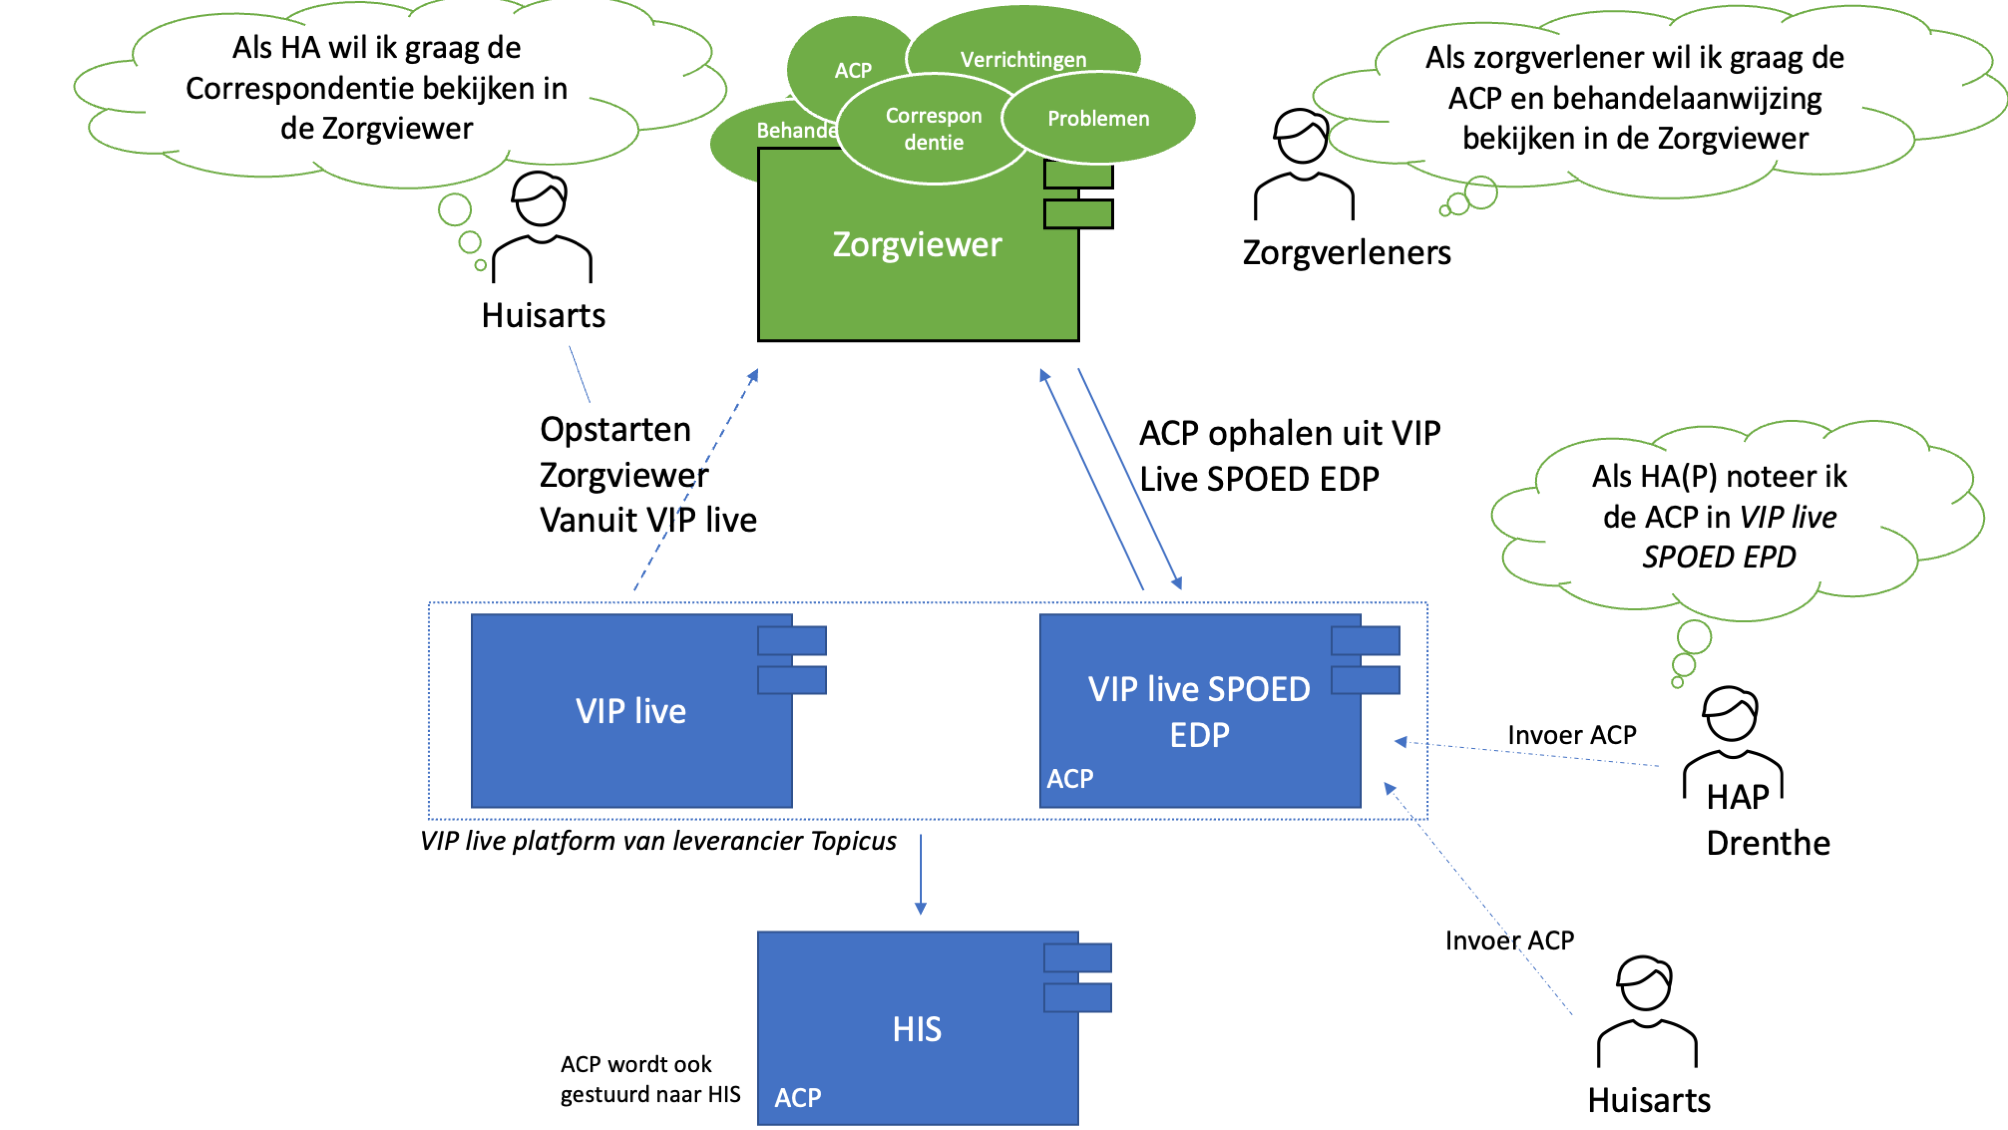
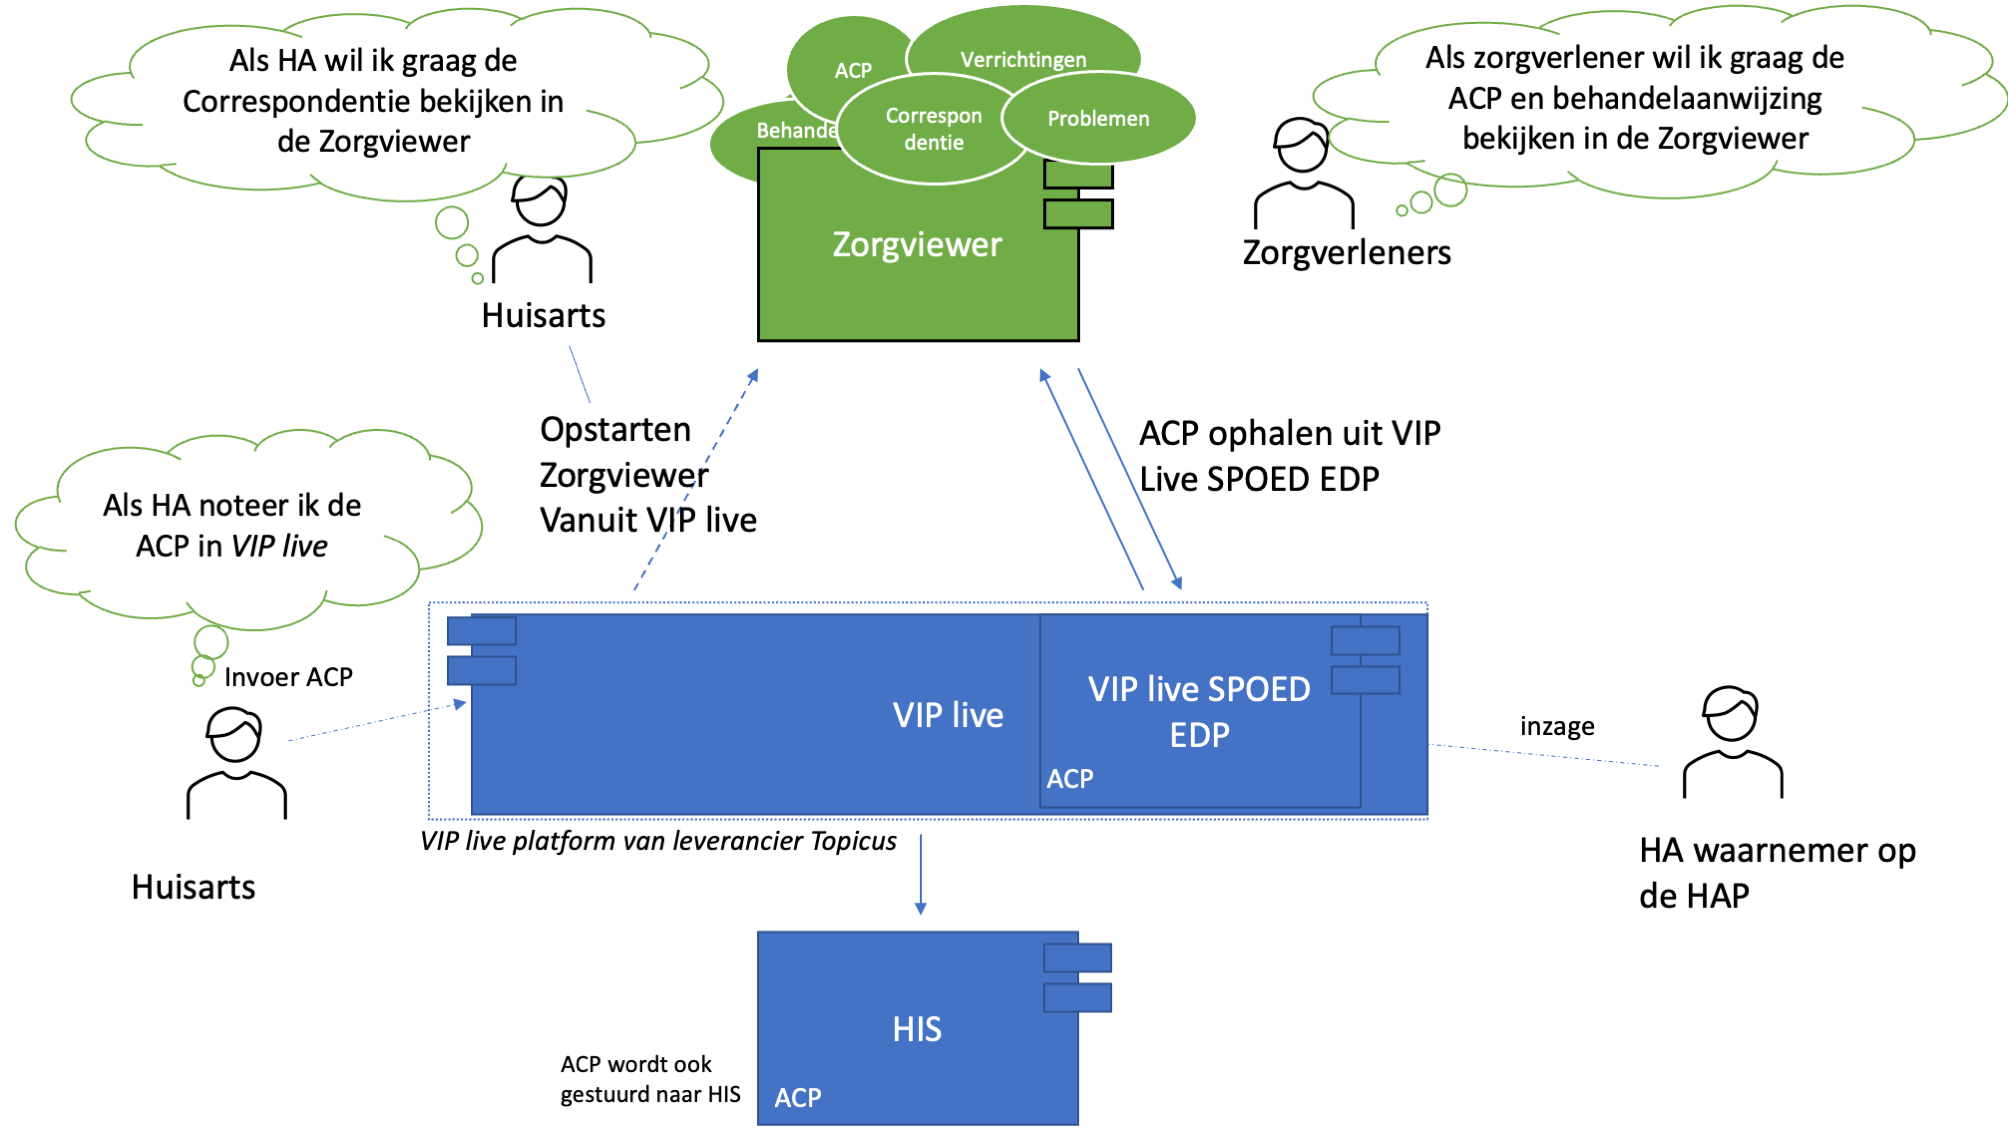
aanpassingen nav overleg met Topicus en dokter drenthe

diff --git a/input/pagecontent/design-background.md b/input/pagecontent/design-background.md
@@ -28,17 +28,16 @@ In onderstaade plaat is globaal weergegeven hoe de systemen van de huisarts inte
 
 #### Definities
 * Topicus = Leverancier van VIPLive
-* VIPLive = producten suite / platform, VIPLive is geen HIS
+* VIPLive = producten suite / platform, VIPLive is geen HIS, in VIPLive wordt de ACP ingevoerd door de huisarts
 * VIPLive Spoed EPD = module van VIPLive en wordt gebruikt in de huisartsenpost
 
 #### Omschrijving proces
-VIPLive SPOED EPD is het systeem waarmee de Zorgviewer gekoppeld moet worden. Het VIPLive SPOED EPD wordt in de avond, nacht en weekend gebruikt. De telefoniste voert de triage uit en documenteert hierin de gegevens van de patiënt + BSN. Basale dossier informatie is hier al bekend via LSP als patiënt toestemming heeft gegeven.
-Indien het noodzakelijk is om de huisartsenpost te bezoeken wordt de afspraak, behandeling etc. allemaal in VIPLive SPOED EPD vastgelegd. Vervolgens krijgt de eigen huisarts de informatie doorgestuurd vanuit VIPLive in het eigen HIS. VIPlive SPOED EPD slaat in principe geen informatie op (slechts 72 uur), behalve voor de ACP, daarbij is VIPLive het bronsysteem.
+VIPLive (SPOED EPD) is het systeem waarmee de Zorgviewer gekoppeld moet worden. Het VIPLive platform , met daarin SPOED EPD wordt in de avond, nacht en weekend gebruikt. De telefoniste voert de triage uit en documenteert hierin de gegevens van de patiënt + BSN. Basale dossier informatie is hier al bekend via LSP als patiënt toestemming heeft gegeven.
  
-Niet elke praktijk in Groningen/Friesland/Drenthe heeft VIPLive maar in Drenthe is regionaal afgesproken om VIPLive Spoed EPD te gebruiken bij de huisartsenposten. Daarbij wordt de ACP informatie áltijd in de VIPlive Spoed EPD wordt vastgelegd. Voor alle huisartsen (niet HAP) is het relevant om de correspondentie vanuit het ziekenhuis te kunnen inzien vanuit VIPLive in de Zorgviewer. 
+Niet elke praktijk in Groningen/Friesland/Drenthe heeft VIPLive maar in Drenthe is regionaal afgesproken om VIPLive (Spoed EPD) te gebruiken bij de huisartsenposten. Daarbij wordt de ACP informatie áltijd in de VIPlive wordt vastgelegd. Voor alle huisartsen (niet HAP) is het relevant om de correspondentie vanuit het ziekenhuis te kunnen inzien vanuit VIPLive in de Zorgviewer. 
 
 De integratie is als volgt met de Zorgviewer
-* Ophalen van de ACP uit VIPLive Spoed EPD
+* Ophalen van de ACP uit VIPLive platform met daarin VIPLive Spoed EPD
 * opstarten Zorgviewer vanuit VIPLive
 
  
